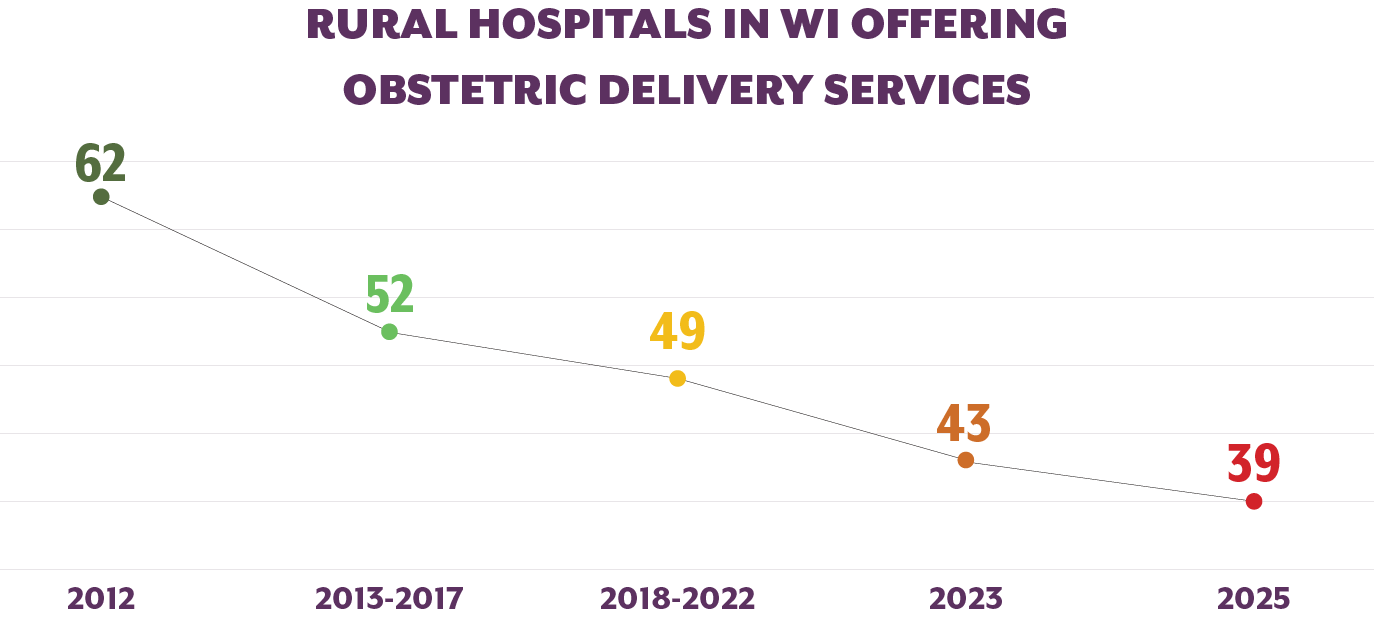
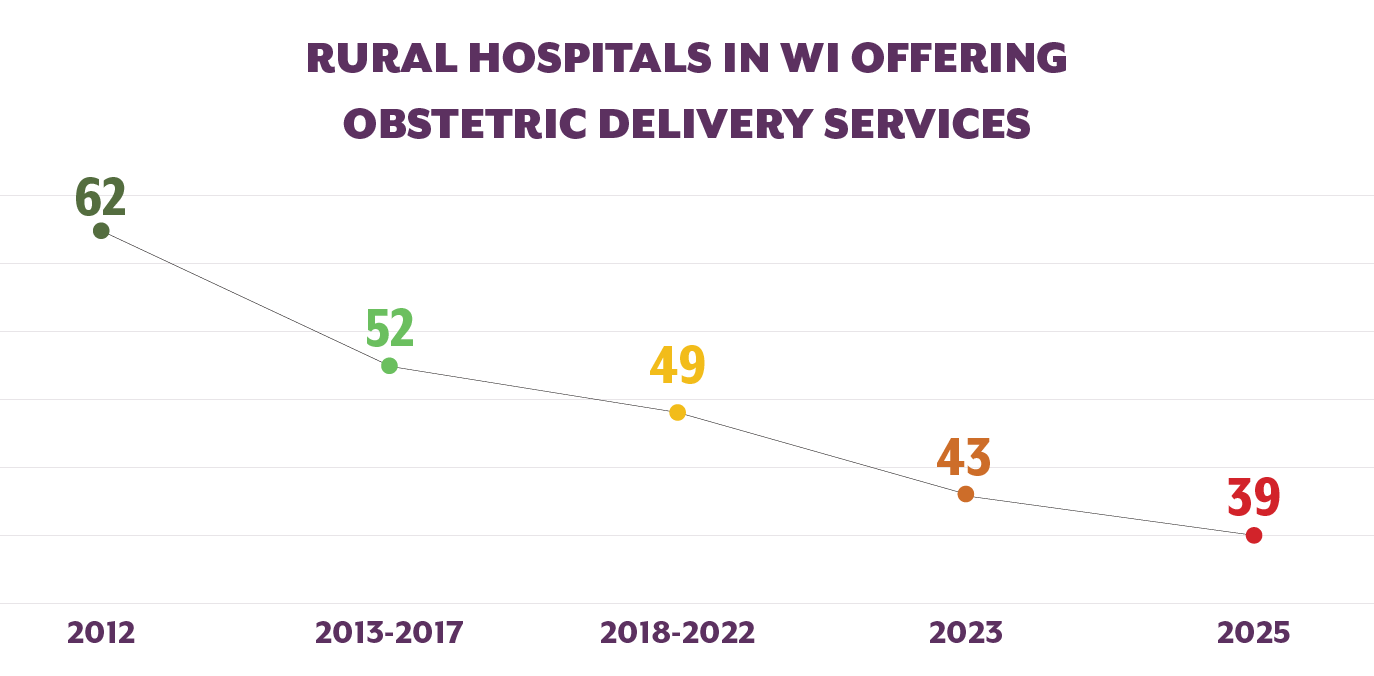
Final Stretch
Hi-res page photos, landing page content, improved mobile UX.

diff --git a/app/globals.css b/app/globals.css
@@ -104,13 +104,13 @@ h1, h2, h3, h4, h5, h6 {
   .nav--hero-logo .nav-inner { justify-content: center; }
 }
 @media (max-width: 900px) {
-  /* Header holds its original height via min-height. The logo sits in its
-     original full-width row on top (button below). When the hero logo is in
-     view the switcharoo (.nav--hero-logo .logo { display:none }) removes the
-     logo — min-height keeps the bar the same height (no page jump) and the flex
-     centering drops the Donate button to dead-center of the header. */
+  /* Compact mobile header: smaller logo, tighter padding. min-height (via
+     --nav-offset) holds the bar's height when the hero-logo switcharoo
+     (.nav--hero-logo .logo { display:none }) removes the logo — no page jump. */
+  :root { --nav-offset: 90px; }
   .nav {
-    min-height: 190px;
+    padding-top: 0.6rem;
+    padding-bottom: 0.6rem;
   }
   .nav-inner {
     flex-wrap: wrap;
@@ -120,15 +120,15 @@ h1, h2, h3, h4, h5, h6 {
     order: 0;
     width: 100%;
     justify-content: center;
-    margin-bottom: 1rem;
   }
-  .nav-donate-row {
-    margin-top: 0;
+  .logo img {
+    height: 70px;
   }
   .menu-toggle {
     position: absolute;
     right: 1rem;
-    top: 1.2rem;
+    top: 50%;
+    transform: translateY(-50%);
   }
 }
 .nav-links {
@@ -227,17 +227,25 @@ h1, h2, h3, h4, h5, h6 {
 
 .hero {
   position: relative;
-  min-height: 85vh;
+  min-height: 100vh;
+  min-height: 100svh;
   display: flex;
   align-items: center;
   justify-content: center;
   text-align: center;
-  padding: 0 2rem;
+  padding: 4rem 2rem 0;
   margin: 0;
   width: 100%;
   color: var(--white);
   overflow: hidden;
   isolation: isolate;
+}
+@media (max-width: 900px) {
+  .hero {
+    min-height: 55vh;
+    min-height: 55svh;
+    padding-bottom: 3rem;
+  }
 }
 .hero-bg {
   position: absolute;
@@ -310,17 +318,9 @@ h1, h2, h3, h4, h5, h6 {
   box-shadow: var(--shadow);
 }
 
-/* Standalone Donate button in the header */
-/* Desktop: inline Donate in the nav row; centered row hidden */
-.nav-donate-row {
-  display: none;
-  justify-content: center;
-  margin-top: 1rem;
-}
+/* Standalone Donate button in the header (desktop only) */
 @media (max-width: 900px) {
-  /* Mobile: hide inline Donate, show centered button below the nav */
   .nav-donate-desktop { display: none; }
-  .nav-donate-row { display: flex; }
 }
 .nav-donate {
   flex: none;
@@ -365,6 +365,35 @@ section#home { padding: 0; }
   margin: 0 auto 3.5rem;
   max-width: 600px;
 }
+
+/* Home page intro copy under the hero */
+.home-intro { max-width: 800px; }
+.home-intro p { margin-bottom: 1.5rem; }
+.home-intro p:last-of-type { margin-bottom: 0; }
+.home-intro p a { color: var(--secondary); text-decoration: underline; }
+.home-intro-lead {
+  font-family: var(--font-heading);
+  font-size: clamp(1.4rem, 2.5vw, 1.7rem);
+  line-height: 1.5;
+  color: var(--primary-dark);
+  text-align: center;
+}
+.home-intro-highlight {
+  font-family: "elaina-script", sans-serif;
+  font-weight: 400;
+  font-style: normal;
+  font-size: clamp(1.8rem, 3.5vw, 2.4rem);
+  -webkit-text-stroke: 0.5px currentColor;
+  line-height: 1.4;
+  color: var(--primary-dark);
+  text-align: center;
+  margin: 2.5rem auto;
+}
+.home-intro-cta {
+  text-align: center;
+  margin-top: 3rem;
+}
+
 .ahm-logo {
   display: block;
   margin: 0 auto 1.5rem;
@@ -854,6 +883,19 @@ section#home { padding: 0; }
 .form-group textarea { resize: vertical; min-height: 120px; }
 
 .form-status { margin-top: 1rem; font-size: 1.2rem; color: var(--primary-dark); }
+
+/* Full-width image strip between page content and the footer */
+.page-bottom-image {
+  width: 100%;
+  height: clamp(240px, 45vh, 520px);
+  overflow: hidden;
+}
+.page-bottom-image img {
+  display: block;
+  width: 100%;
+  height: 100%;
+  object-fit: cover;
+}
 
 footer {
   position: relative;

diff --git a/app/components/sections/HomeIntroSection.js b/app/components/sections/HomeIntroSection.js
@@ -1,0 +1,50 @@
+import Link from 'next/link';
+
+export default function HomeIntroSection() {
+  return (
+    <section id="mission" className="fade-section">
+      <div className="container home-intro">
+        <p className="home-intro-lead">
+          Sifra Birth Center is a freestanding birth center proposed by
+          Anabaptist Health Ministries in Merrill, Wisconsin.
+        </p>
+        <p>
+          We are uniquely positioned to serve the growing families of
+          north-central Wisconsin with compassionate, high-quality,
+          personalized maternity care that honors both clinical excellence and
+          biblical values.
+        </p>
+        <p className="home-intro-highlight">
+          We aim to begin welcoming babies in early 2029.
+        </p>
+        <p>
+          To keep birth fees modest and affordable for most
+          families&mdash;regardless of income&mdash;we are funding the entire
+          facility through charitable donations rather than debt. We cannot
+          serve our neighbors well while carrying significant capital debt. An
+          affordable birth experience for all is only possible if our
+          community invests in the center itself.
+        </p>
+        <p>
+          Construction will begin once we have secured 70% of the $7,000,000
+          needed. We are actively seeking donations and partnership
+          commitments from individuals, churches, businesses, local
+          organizations, and private foundations who share our vision of
+          bringing hope, healing, and excellent care to rural families.
+        </p>
+        <p>
+          If you are interested in helping fund this facility, please{' '}
+          <Link href="/contact?subject=Sifra%20Sponsorship">contact us</Link>.
+        </p>
+        <p>
+          Your generous investment today will create a lasting legacy of
+          life-affirming maternity care rooted in safety and
+          compassion&mdash;right here in our own communities.
+        </p>
+        <div className="home-intro-cta">
+          <Link href="/donate" className="btn">Get Involved</Link>
+        </div>
+      </div>
+    </section>
+  );
+}

diff --git a/app/components/ContactForm.js b/app/components/ContactForm.js
@@ -1,10 +1,26 @@
 'use client';
 
-import { useState } from 'react';
+import { useEffect, useState } from 'react';
+
+const SUBJECTS = [
+  'General Inquiry',
+  'Schedule a Tour',
+  'Prenatal Care',
+  'Postpartum Support',
+  'Sifra Sponsorship',
+];
 
 export default function ContactForm() {
   const [status, setStatus] = useState(null);
   const [loading, setLoading] = useState(false);
+  const [subject, setSubject] = useState(SUBJECTS[0]);
+
+  // Preselect the subject when linked as /contact?subject=<option>. Read in
+  // an effect (not useSearchParams) so the page can stay statically rendered.
+  useEffect(() => {
+    const requested = new URLSearchParams(window.location.search).get('subject');
+    if (requested && SUBJECTS.includes(requested)) setSubject(requested);
+  }, []);
 
   async function handleSubmit(e) {
     e.preventDefault();
@@ -23,6 +39,7 @@ export default function ContactForm() {
       if (!res.ok) throw new Error('Request failed');
       setStatus({ ok: true, msg: 'Thank you! We will be in touch soon.' });
       e.target.reset();
+      setSubject(SUBJECTS[0]);
     } catch {
       setStatus({ ok: false, msg: 'Something went wrong. Please try again.' });
     } finally {
@@ -43,11 +60,15 @@ export default function ContactForm() {
       </div>
       <div className="form-group">
         <label htmlFor="subject">Subject</label>
-        <select id="subject" name="subject" defaultValue="General Inquiry">
-          <option>General Inquiry</option>
-          <option>Schedule a Tour</option>
-          <option>Prenatal Care</option>
-          <option>Postpartum Support</option>
+        <select
+          id="subject"
+          name="subject"
+          value={subject}
+          onChange={(e) => setSubject(e.target.value)}
+        >
+          {SUBJECTS.map((s) => (
+            <option key={s}>{s}</option>
+          ))}
         </select>
       </div>
       <div className="form-group">

diff --git a/app/components/PageBottomImage.js b/app/components/PageBottomImage.js
@@ -1,0 +1,29 @@
+'use client';
+
+import { usePathname } from 'next/navigation';
+import { useEffect, useState } from 'react';
+
+// Full-width image strip shown above the footer. Each page's image lives at
+// /images/all-pages/<pagename>.webp (home page = home.webp); pages listed
+// here don't get one. If an image is missing, the strip hides itself
+// instead of showing a broken image.
+const EXCLUDED = ['/qr-donate', '/employment', '/build-log'];
+
+export default function PageBottomImage() {
+  const pathname = usePathname();
+  const [failed, setFailed] = useState(null);
+
+  useEffect(() => setFailed(null), [pathname]);
+
+  if (!pathname || EXCLUDED.includes(pathname)) return null;
+
+  const name = pathname === '/' ? 'home' : pathname.replace(/^\/|\/$/g, '').replace(/\//g, '-');
+  const src = `/images/all-pages/${name}.webp`;
+  if (failed === src) return null;
+
+  return (
+    <div className="page-bottom-image">
+      <img src={src} alt="" loading="lazy" onError={() => setFailed(src)} />
+    </div>
+  );
+}

diff --git a/app/components/sections/AboutSection.js b/app/components/sections/AboutSection.js
@@ -14,7 +14,7 @@ const staffPerson = (name, jobTitle, image, honorificSuffix) => ({
 const STAFF_JSONLD = {
   '@context': 'https://schema.org',
   '@graph': [
-    staffPerson('Katie Breitenmoser', 'Clinical Director', '/images/staff/katie-breitenmoser.webp', 'CPM, LM'),
+    staffPerson('Katie Breitenmoser', 'Lead Midwife, Clinical Director', '/images/staff/katie-breitenmoser.webp', 'CPM, LM'),
     staffPerson('Andrew Headings', 'Executive Director', '/images/staff/andrew-headings.webp'),
     staffPerson('Neil Martin', 'Administrative Director', '/images/staff/neil-martin.webp'),
     staffPerson('Talitha Groshek', 'Student Midwife', '/images/staff/talitha-groshek.webp'),
@@ -120,10 +120,10 @@ export default function AboutSection() {
           <div className="features" style={{ marginTop: '2rem' }}>
             <div className="feature">
               <div className="feature-img-circle">
-                <img src="/images/staff/katie-breitenmoser.webp" alt="Katie Breitenmoser, CPM, LM, Clinical Director at Sifra Birth Center" width={700} height={700} loading="lazy" decoding="async" />
+                <img src="/images/staff/katie-breitenmoser.webp" alt="Katie Breitenmoser, CPM, LM, Lead Midwife and Clinical Director at Sifra Birth Center" width={700} height={700} loading="lazy" decoding="async" />
               </div>
               <h4>Katie Breitenmoser, CPM, LM</h4>
-              <p className="staff-role">Clinical Director</p>
+              <p className="staff-role">Lead Midwife, Clinical Director</p>
               <p>Katie became a certified and licensed CPM (Certified Professional Midwife) in 2018, following more than twelve years of study and apprenticeship in both home and birth center practices and over 350 births. She founded Windy Hill Midwifery, LLC, and has loved serving area families ever since. Since licensure, she has attended around 460 births and maintains a transfer-of-care rate of approximately 17.3%, a transfer-during-labor rate of 7.1% (the vast majority non-emergent), and a cesarean birth rate of approximately 3.5%.</p>
               <p>Katie views childbirth as an important and empowering physiological process that should be respected and safeguarded. A member of the Wisconsin Guild of Midwives, she is passionate about increasing access to high-quality midwifery care for all interested families and stays current through ongoing classes and certifications. Katie and her husband live on their dairy farm near Merrill, WI. With five children &mdash; three still at home &mdash; she loves spending time with her family, gardening, and being involved in her community.</p>
             </div>

diff --git a/app/components/Navbar.js b/app/components/Navbar.js
@@ -96,11 +96,6 @@ export default function Navbar() {
           Donate
         </Link>
       </div>
-      <div className="nav-donate-row">
-        <Link href="/donate" className="btn nav-donate" onClick={() => setOpen(false)}>
-          Donate
-        </Link>
-      </div>
     </nav>
   );
 }

diff --git a/app/page.js b/app/page.js
@@ -1,4 +1,5 @@
 import HeroSection from './components/sections/HeroSection';
+import HomeIntroSection from './components/sections/HomeIntroSection';
 import { pageMetadata } from './lib/seo';
 
 export const metadata = pageMetadata({
@@ -12,7 +13,7 @@ export default function HomePage() {
   return (
     <>
       <HeroSection />
-      {/* Additional home content goes here, between the hero and the footer. */}
+      <HomeIntroSection />
     </>
   );
 }

diff --git a/app/layout.js b/app/layout.js
@@ -3,6 +3,7 @@ import './globals.css';
 import Navbar from './components/Navbar';
 import Footer from './components/Footer';
 import SmoothScroll from './components/SmoothScroll';
+import PageBottomImage from './components/PageBottomImage';
 import FadeInSections from './components/FadeInSections';
 import { SITE_URL, SITE_NAME, OG_IMAGE } from './lib/seo';
 import { Analytics } from '@vercel/analytics/next';
@@ -68,6 +69,7 @@ export default function RootLayout({ children }) {
         <FadeInSections />
         {!bare && <Navbar />}
         <main>{children}</main>
+        {!bare && <PageBottomImage />}
         {!bare && <Footer />}
         <Analytics />
       </body>